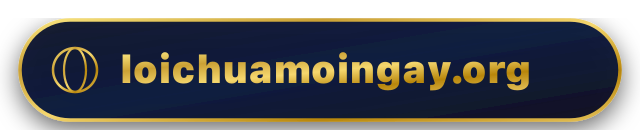
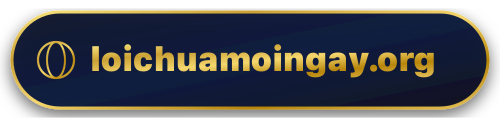
fix(brand): cắt gọn khoảng trống thừa phía sau link loichuamoingay.org (cân đối 2 đầu capsule badge)

diff --git a/scripts/create_website_banner.js b/scripts/create_website_banner.js
@@ -134,9 +134,12 @@ async function createBannersAndBadges() {
   // =========================================================================
   // 2. CẮT RIÊNG KHUNG VIỀN CHỨA LINK WEBSITE (STANDALONE BADGE TRANSPARENT PNG)
   // =========================================================================
-  // Kích thước chuẩn badge: 640 x 140 px (Ultra HD Vector Badge)
-  const badgeWidth = 640;
-  const badgeHeight = 140;
+  // Kích thước chuẩn badge: 500 x 120 px (Snug & Cân đối 2 bên, không bị thừa đuôi)
+  const badgeWidth = 500;
+  const badgeHeight = 120;
+  const capsuleWidth = 476;
+  const capsuleHeight = 96;
+  const rx = capsuleHeight / 2; // 48
 
   const svgBadge = Buffer.from(`
     <svg width="${badgeWidth}" height="${badgeHeight}" viewBox="0 0 ${badgeWidth} ${badgeHeight}" xmlns="http://www.w3.org/2000/svg">
@@ -156,21 +159,21 @@ async function createBannersAndBadges() {
         </linearGradient>
 
         <filter id="badgeShadow" x="-10%" y="-10%" width="120%" height="120%">
-          <feDropShadow dx="0" dy="8" stdDeviation="12" flood-color="#000000" flood-opacity="0.6"/>
+          <feDropShadow dx="0" dy="6" stdDeviation="8" flood-color="#000000" flood-opacity="0.6"/>
         </filter>
       </defs>
 
-      <!-- Standalone Capsule Badge with luxury gold rim and dark navy core -->
+      <!-- Snug Capsule Badge with luxury gold rim and dark navy core -->
       <g filter="url(#badgeShadow)">
-        <rect x="20" y="20" width="${badgeWidth - 40}" height="${badgeHeight - 40}" rx="${(badgeHeight - 40) / 2}" fill="url(#badgeBg)" stroke="url(#goldGrad)" stroke-width="3.5" />
+        <rect x="12" y="12" width="${capsuleWidth}" height="${capsuleHeight}" rx="${rx}" fill="url(#badgeBg)" stroke="url(#goldGrad)" stroke-width="3" />
         
         <!-- Globe Icon -->
-        <circle cx="75" cy="${badgeHeight / 2}" r="22" fill="none" stroke="url(#goldGrad)" stroke-width="2.5" />
-        <ellipse cx="75" cy="${badgeHeight / 2}" rx="11" ry="22" fill="none" stroke="url(#goldGrad)" stroke-width="2.2" />
-        <line x1="53" y1="${badgeHeight / 2}" x2="97" y2="${badgeHeight / 2}" stroke="url(#goldGrad)" stroke-width="2.2" />
+        <circle cx="56" cy="${badgeHeight / 2}" r="18" fill="none" stroke="url(#goldGrad)" stroke-width="2.2" />
+        <ellipse cx="56" cy="${badgeHeight / 2}" rx="9" ry="18" fill="none" stroke="url(#goldGrad)" stroke-width="2" />
+        <line x1="38" y1="${badgeHeight / 2}" x2="74" y2="${badgeHeight / 2}" stroke="url(#goldGrad)" stroke-width="2" />
 
-        <!-- Domain text -->
-        <text x="120" y="${badgeHeight / 2 + 13}" font-family="system-ui, -apple-system, sans-serif" font-size="38" font-weight="800" fill="url(#goldGrad)" letter-spacing="2">
+        <!-- Domain text (Snug & centered within capsule) -->
+        <text x="90" y="${badgeHeight / 2 + 11}" font-family="system-ui, -apple-system, BlinkMacSystemFont, 'Segoe UI', Roboto, sans-serif" font-size="33" font-weight="800" fill="url(#goldGrad)" letter-spacing="1">
           loichuamoingay.org
         </text>
       </g>
@@ -181,7 +184,7 @@ async function createBannersAndBadges() {
 
   const artifactBadgePath = path.join(artifactDir, 'badge_link_loichuamoingay.png');
   await sharp(badgeBuffer).toFile(artifactBadgePath);
-  console.log(`✅ Đã lưu Standalone Badge: ${artifactBadgePath}`);
+  console.log(`✅ Đã lưu Standalone Badge (Snug): ${artifactBadgePath}`);
 
   const publicBadgePath = path.join(publicDir, 'badge_link_loichuamoingay.png');
   await sharp(badgeBuffer).toFile(publicBadgePath);
@@ -208,15 +211,15 @@ async function createBannersAndBadges() {
 
       <!-- Hollow Capsule Outline (Hoàn toàn trong suốt ở giữa) -->
       <g filter="url(#glow)">
-        <rect x="20" y="20" width="${badgeWidth - 40}" height="${badgeHeight - 40}" rx="${(badgeHeight - 40) / 2}" fill="none" stroke="url(#goldGrad)" stroke-width="4" />
+        <rect x="12" y="12" width="${capsuleWidth}" height="${capsuleHeight}" rx="${rx}" fill="none" stroke="url(#goldGrad)" stroke-width="3.5" />
         
         <!-- Globe Icon -->
-        <circle cx="75" cy="${badgeHeight / 2}" r="22" fill="none" stroke="url(#goldGrad)" stroke-width="2.5" />
-        <ellipse cx="75" cy="${badgeHeight / 2}" rx="11" ry="22" fill="none" stroke="url(#goldGrad)" stroke-width="2.2" />
-        <line x1="53" y1="${badgeHeight / 2}" x2="97" y2="${badgeHeight / 2}" stroke="url(#goldGrad)" stroke-width="2.2" />
+        <circle cx="56" cy="${badgeHeight / 2}" r="18" fill="none" stroke="url(#goldGrad)" stroke-width="2.2" />
+        <ellipse cx="56" cy="${badgeHeight / 2}" rx="9" ry="18" fill="none" stroke="url(#goldGrad)" stroke-width="2" />
+        <line x1="38" y1="${badgeHeight / 2}" x2="74" y2="${badgeHeight / 2}" stroke="url(#goldGrad)" stroke-width="2" />
 
         <!-- Domain text -->
-        <text x="120" y="${badgeHeight / 2 + 13}" font-family="system-ui, -apple-system, sans-serif" font-size="38" font-weight="800" fill="url(#goldGrad)" letter-spacing="2">
+        <text x="90" y="${badgeHeight / 2 + 11}" font-family="system-ui, -apple-system, BlinkMacSystemFont, 'Segoe UI', Roboto, sans-serif" font-size="33" font-weight="800" fill="url(#goldGrad)" letter-spacing="1">
           loichuamoingay.org
         </text>
       </g>
